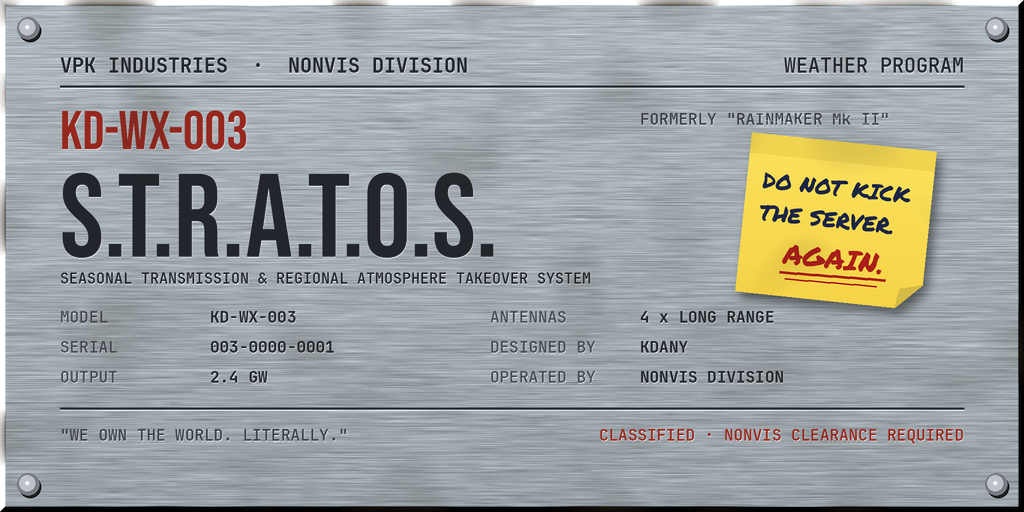
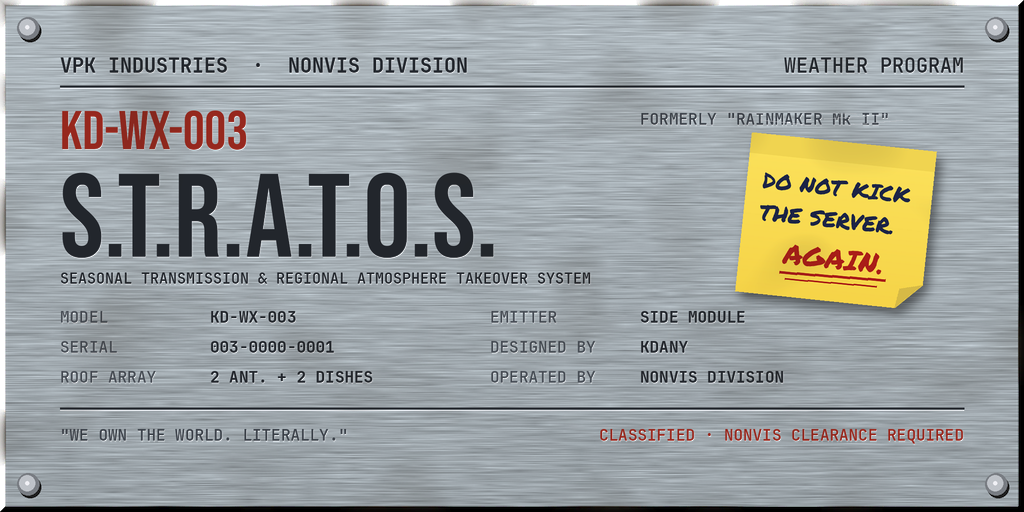
docs: describe the S.T.R.A.T.O.S. roof array and side emitter module
Two antennas and two dishes on the roof (for looks, classified in the
lore) and a side emitter module whose smoke shows the KD-PX release. The
screen and the plate are updated to match.

Claude-Session: https://claude.ai/code/session_01TPtXe8YEjXWuXNmFgmXabW

diff --git a/docs/kdanium-paper-inlore.md b/docs/kdanium-paper-inlore.md
@@ -110,11 +110,13 @@ Producing weather is only half of the problem; it also has to reach the world. T
 
 1. **Excitation.** Kd atoms are excited in the core of S.T.R.A.T.O.S. at 2.4 GW until they enter a *seasonal resonance state*.
 2. **Modulation.** The active season module (summer, night, later winter) imprints the desired phase onto the excited atoms: liquid for rain, solid for snow.
-3. **Transmission.** The four long-range antennas broadcast the Kdanium over the entire map. Kdanium travels at the speed of light, except on Tuesdays.
+3. **Emission.** The excited Kdanium leaves the cabinet through the **side emitter module**, the only part of S.T.R.A.T.O.S. that actually emits anything. At the moment of release it is briefly visible as a thin plume of smoke. The plume is not a malfunction. It is the weather, on its way out. Kdanium travels at the speed of light, except on Tuesdays.
 4. **Condensation.** Over the playable area, the broadcast condenses into KD-PX particles exactly where **KD-WX-002 F.O.R.E.C.A.S.T.** has scheduled them (rain 90%, storm 10%).
 5. **Mood.** **KD-WX-001 A.T.M.O.S.** sets the light, sky and fog to match, so that nobody notices the weather was manufactured.
 
 Every asset touched by the weather is monitored by **KD-MCS-001 V.I.G.I.L.** Every incident is logged. Every.
+
+**Note on the roof array.** The roof of S.T.R.A.T.O.S. carries two antennas and two satellite dishes. Their exact function is classified. Internal documents describe them as *"important"*, *"aligned"* and *"very expensive"*. Removing them has never been attempted, because the machine would then look considerably less serious.
 
 ## 8. Discussion
 

diff --git a/docs/vpk-industries.md b/docs/vpk-industries.md
@@ -33,7 +33,7 @@ formerly BSP Industries (Binary Space Partitioning Industries)
 | :--- | :--- | :--- | :--- | :--- |
 | **KD-WX-001** | **A.T.M.O.S.** | *Atmospheric Tuning & Mood Override Station* | the map's environment entities: `light_environment`, `env_sky`, `env_cubemap_fog`, `env_wind`, `post_processing_volume`, `info_map_parameters` | *"Nature is a setting."* |
 | **KD-WX-002** | **F.O.R.E.C.A.S.T.** | *Fully Overridden Random Event & Climate Activation Scheduling Terminal* | the weather state rolled every round (rain 90% / storm 10%; clear weather was lost in Incident Report #003) and the lightning | *"Forecast accuracy: 100%. We make it!"* |
-| **KD-WX-003** | **S.T.R.A.T.O.S.** | *Seasonal Transmission & Regional Atmosphere Takeover System* | the central server cabinet with antennas that "broadcasts" the seasons (summer, night, later winter) | *"Do not kick the server. Again."* |
+| **KD-WX-003** | **S.T.R.A.T.O.S.** | *Seasonal Transmission & Regional Atmosphere Takeover System* | the central server cabinet that "broadcasts" the seasons (summer, night, later winter). On its roof: 2 antennas and 2 satellite dishes, purely for looks (in the lore: *"classified"*). On its side: the **emitter module**, where a smoke particle shows the KD-PX being released. | *"Do not kick the server. Again."* |
 | **KD-MCS-001** | **V.I.G.I.L.** | *Vandalism Incident & General Infrastructure Log* | monitors the interactive parts of the map (e.g. street lights that can be shot out, later doors, alarms, ...) | *"Everything is logged. Everything!"* |
 
 ## Naming rules

diff --git a/docs/vpk-industries-inlore.md b/docs/vpk-industries-inlore.md
@@ -62,7 +62,11 @@ Lightning included, at no extra charge, at random intervals.
 **Seasonal Transmission & Regional Atmosphere Takeover System**
 *Formerly "Rainmaker Mk II"*
 
-Four long-range antennas. 2.4 gigawatts of output. One season at a time, broadcast to the entire world. S.T.R.A.T.O.S. is the core of the Weather Program: every other weather machine reports to it.
+Two antennas and two satellite dishes on the roof, each one doing something extremely important.* One side-mounted emitter module. 2.4 gigawatts of output. One season at a time, released into the entire world.
+
+<sub>* Details classified.</sub>
+
+ S.T.R.A.T.O.S. is the core of the Weather Program: every other weather machine reports to it.
 
 Current season modules: **Summer** (loaded), **Night** (transmitting), **Winter** (coming soon).
 
